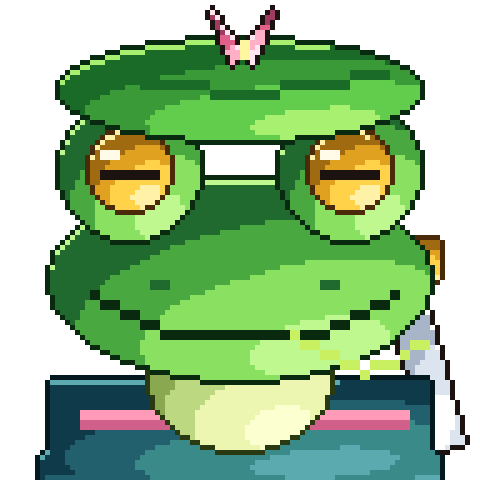
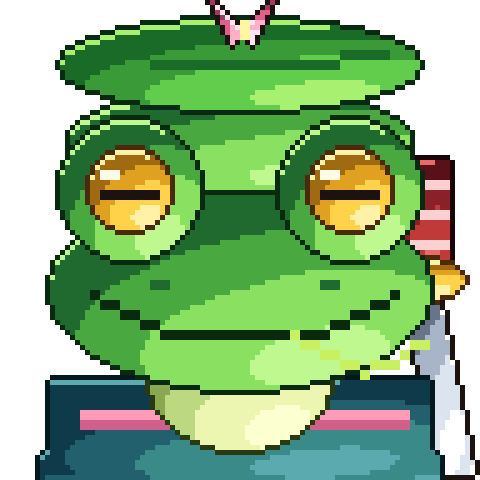
Fighter art fixes: Volt face visible, Blaze bigger eyes, Frog hat/eyes/katana, Maskcat eye patches
Claude-Session: https://claude.ai/code/session_017Aje2AFmWso7fyMwhqMWVA

diff --git a/tools/gen_fighters.py b/tools/gen_fighters.py
@@ -154,25 +154,29 @@ BELLY = ["#fcffd0", "#ecf6b0", "#bcd880", "#8aa850", "#2a3a10"]
 
 def lilyhop():
     s = Sprite()
-    s.part(P((38, 27), (41, 26), (46, 44), (43, 45)), ["#fff", "#dce4f0", "#a8b4c8", "#6a7488", INK])  # sword behind the shoulder
-    s.part(R(36, 24, 43, 27), GOLD)
+    s.part(P((40, 28), (43, 27), (47, 47), (44, 47)), ["#fff", "#dce4f0", "#a8b4c8", "#6a7488", INK])  # katana blade behind the shoulder
+    s.part(R(39, 16, 44, 27), ["#e86a6a", "#c03a3a", "#8a2028", "#5a1018", "#1a0408"])                 # wrapped hilt
+    for y in (18, 21, 24):
+        s.line((39, y), (44, y), "#fbd0d0")
+    s.part(E(41.5, 28, 5, 2), GOLD)                                                                     # guard
     s.part(R(5, 38, 42, 47) | E(24, 47, 20, 8), TEAL)
     s.line((8, 41), (40, 41), "#ff9ab8")
     s.line((8, 42), (40, 42), "#d0608a")
     s.part(E(24, 38, 9, 7), BELLY)                                                           # throat pouch
-    s.part(E(24, 28, 19, 10), FROG)                                                          # wide head
+    s.part(E(24, 29, 19, 10), FROG)                                                          # wide head
+    s.part(E(24, 14, 17, 5), FROG)                                                           # top of the head under the hat
     for cx in (13, 35):                                                                      # bulging eyes
-        s.part(E(cx, 17, 7, 7), FROG)
-        s.part(E(cx, 17, 4, 4), GOLD)
-        s.stamp(cx - 3, 17, ["oooooo"], {"o": INK})                                           # horizontal pupil
-        s.dots([(cx - 3, 15), (cx - 2, 15)], "#fffbe8")
+        s.part(E(cx, 19, 7, 7), FROG)
+        s.part(E(cx, 19, 4, 4), GOLD)
+        s.stamp(cx - 3, 19, ["oooooo"], {"o": INK})                                           # horizontal pupil
+        s.dots([(cx - 3, 17), (cx - 2, 17)], "#fffbe8")
     s.line((9, 29), (16, 33), "#0a2a10"); s.line((16, 33), (32, 33), "#0a2a10"); s.line((32, 33), (39, 29), "#0a2a10")  # wide smile
     s.line((29, 33), (36, 37), "#c8f060"); s.line((36, 37), (42, 34), "#c8f060")             # blade of grass
     s.dots([(15, 28), (16, 28), (32, 28), (33, 28)], "#206a30")                              # nostrils
-    s.part(E(24, 9, 18, 5), PAD)                                                             # lily-pad hat
-    s.line((24, 9), (10, 7), "#1a6a28"); s.line((24, 9), (38, 7), "#1a6a28")
-    s.part(P((24, 5), (21, 1), (23, 6)) | P((24, 5), (27, 1), (25, 6)), ["#ffe6f0", "#ffb0c8", "#e0608a", "#a03a60", INK])
-    s.dots([(24, 4), (24, 5)], "#fff6a0")
+    s.part(E(24, 6.5, 18, 4.5), PAD)                                                             # lily-pad hat
+    s.line((24, 6.5), (10, 5), "#1a6a28"); s.line((24, 6.5), (38, 5), "#1a6a28")
+    s.part(P((24, 3), (21, 0), (23, 4)) | P((24, 3), (27, 0), (25, 4)), ["#ffe6f0", "#ffb0c8", "#e0608a", "#a03a60", INK])
+    s.dots([(24, 2), (24, 3)], "#fff6a0")
     return s.done()
 
 
@@ -196,9 +200,10 @@ def maskcat():
     both(s, P((9, 20), (8, 2), (19, 10)), CAT)                                                # ears
     both(s, P((11, 17), (11, 7), (16, 11)), PINK, outline=False, rim=False)
     s.part(P((9, 24), (13, 14), (24, 11), (35, 14), (39, 24), (41, 30), (33, 36), (24, 38), (15, 36), (7, 30)), CAT)
-    s.part(P((8, 18), (24, 16), (40, 18), (39, 26), (31, 25), (24, 23), (17, 25), (9, 26)), MASK)  # half mask
+    patch = P((9, 20), (15, 16), (23, 19), (23, 25), (16, 26), (11, 25))
+    s.part(patch | flip(patch) | R(21, 19, 27, 21), MASK)                                    # mask: two eye patches and a bridge
     pal = {"o": INK, "E": "#a8ff3a", "W": "#f4ffc0"}
-    s.mstamp(12, 19, ["oooooo", "oEWEEo", ".oEEo."], pal)
+    s.mstamp(12, 20, ["oooooo", "oEWEEo", ".oEEo."], pal)
     s.stamp(22, 28, ["ooooo", ".ooo."], {"o": "#ff7ab8"})                                     # nose
     s.line((24, 30), (24, 32), "#7a3a68")
     s.line((18, 33), (24, 34), "#7a3a68"); s.line((24, 34), (30, 33), "#7a3a68"); s.line((30, 33), (31, 31), "#7a3a68")  # smirk
@@ -273,12 +278,13 @@ def blaze():
     s.part(P((12, 17), (5, 6), (14, 11), (11, 0), (20, 8), (24, 0), (28, 8), (37, 0), (34, 11), (43, 6), (36, 17)), FLAME)  # flame hair
     s.part(P((16, 15), (14, 7), (21, 12), (24, 5), (27, 12), (34, 7), (32, 15)), ["#fffbe0", "#ffeb90", "#ffb030", "#e06818", "#6a1a08"], outline=False)
     s.part(E(24, 22, 12, 13), HOOD)                                                                 # hood
-    s.part(R(12, 17, 35, 22), SKIN)                                                                 # eye band
-    s.part(P((12, 22), (35, 22), (32, 32), (24, 37), (16, 32)), CRIM)                               # face mask
+    s.part(R(12, 16, 35, 25), SKIN)                                                                 # eye band
+    s.part(P((12, 26), (35, 26), (32, 33), (24, 38), (16, 33)), CRIM)                               # face mask
     s.part(R(11, 11, 36, 15), ["#e86850", "#c8404a", "#8a2030", "#5a1020", "#1a0408"])               # headband
     s.part(R(21, 10, 26, 16), STEEL_PLATE := ["#ffffff", "#e0e8f4", "#9aa8c4", "#5a6a88", "#1a2030"])
     s.dots([(23, 12), (24, 12), (24, 13)], "#ff5a1a")
-    s.mstamp(14, 17, [".ooooo.", "oEWEEEo"], {"o": INK, "E": "#ff3a10", "W": "#fff6c0"})
+    s.mstamp(13, 18, ["..oooooo", ".oEEEEEo", "oEWWEEEo", ".ooEEEo."], {"o": INK, "E": "#ff3a10", "W": "#fff6c0"})
+    s.mstamp(13, 16, ["ooo....", ".ooooo."], {"o": "#3a1008"})                                         # fierce brows
     return s.done()
 
 
@@ -300,12 +306,14 @@ def volt():
     s.part(P((12, 22), (5, 12), (12, 14), (9, 3), (18, 10), (20, 0), (26, 8), (33, 1), (33, 10), (43, 4), (36, 15), (43, 22)), HAIR)  # spiky hair
     s.part(R(21, 31, 26, 38), SKIN)
     s.part(E(24, 24, 11, 12), SKIN)
-    s.part(P((13, 17), (16, 12), (24, 15), (32, 12), (35, 17), (24, 18)), HAIR)                     # fringe
-    s.part(R(12, 18, 35, 25), ["#7a6ad8", "#4a3aa0", "#2a1a68", "#14083a", "#06021a"])                 # goggles
+    s.part(R(11, 12, 36, 17), ["#7a6ad8", "#4a3aa0", "#2a1a68", "#14083a", "#06021a"])                 # goggles pushed up
     for cx in (17, 31):
-        s.part(E(cx, 21.5, 4.5, 3), GEM)
-    s.line((17, 21), (19, 23), "#02121e", native=True)
-    s.line((20, 31), (29, 31), "#7a2a1a"); s.dots([(21, 32), (23, 32), (25, 32), (27, 32)], "#ffffff")  # grin
+        s.part(E(cx, 14.5, 4.5, 2.6), GEM)
+    s.mstamp(14, 21, ["oooooo.", "oEWEEEo", ".ooEEo."], {"o": INK, "E": "#38b0ff", "W": "#e0fcff"})  # eyes
+    s.mstamp(14, 19, ["...ooo", "oooo.."], {"o": "#7a4a14"})                                         # brows
+    s.line((24, 26), (24, 29), "#a8643a", native=True)
+    s.line((18, 31), (30, 31), "#7a2a1a"); s.line((18, 31), (17, 29), "#7a2a1a"); s.line((30, 31), (31, 29), "#7a2a1a")
+    s.dots([(20, 32), (22, 32), (24, 32), (26, 32), (28, 32)], "#ffffff")                            # grin
     return s.done()
 
 
